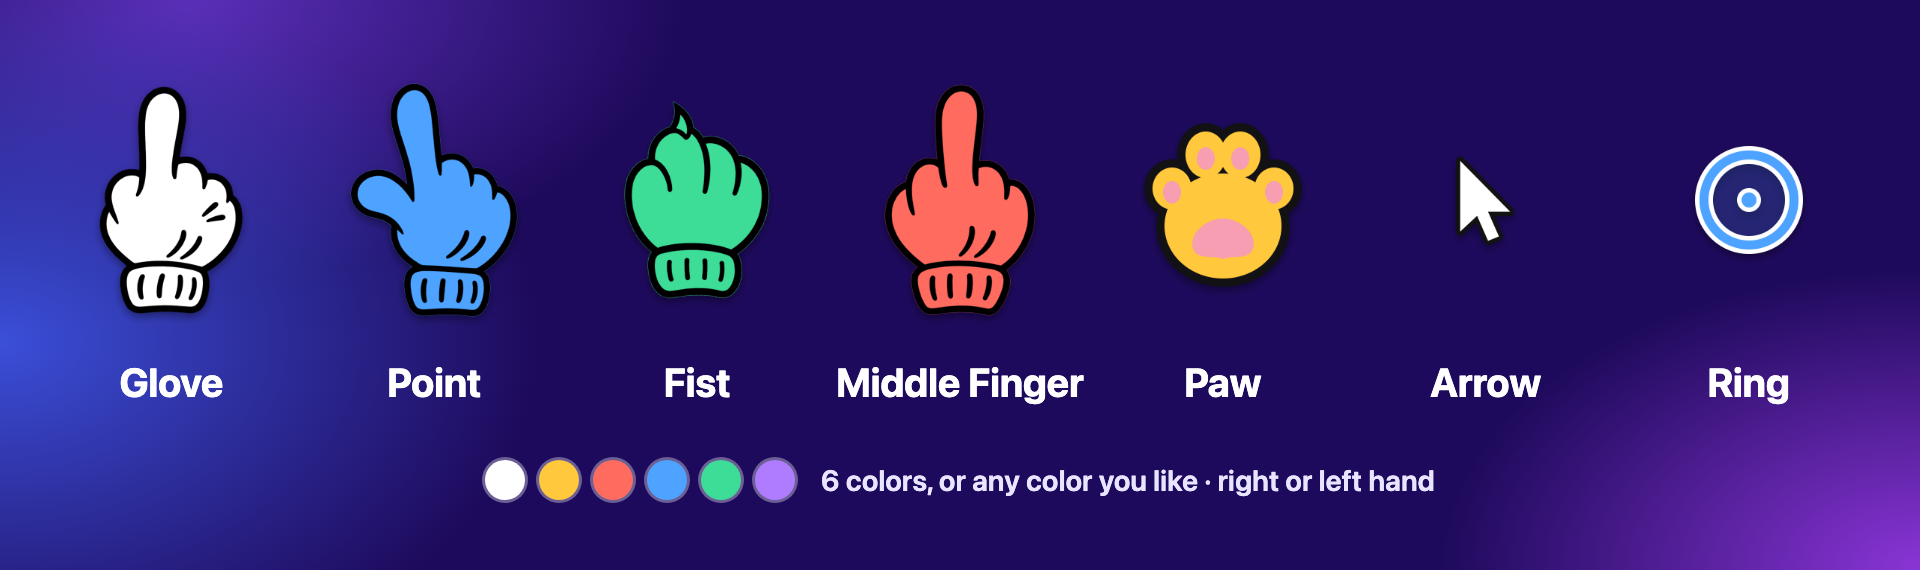
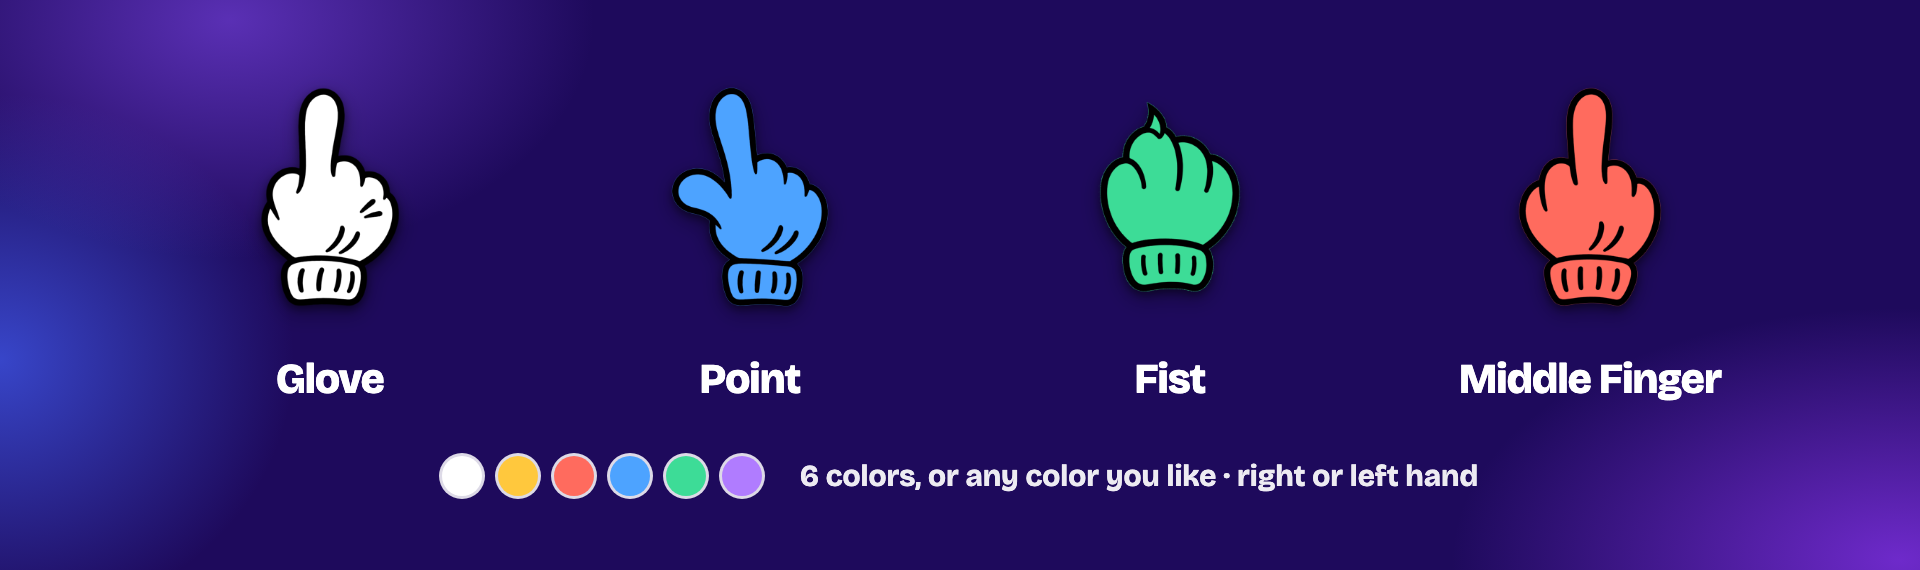
Reach Extender 0.1.0 is out: download link, four hands, changelog dated

diff --git a/README.md b/README.md
@@ -10,7 +10,7 @@ A tiny macOS menu bar app that swaps your cursor for a cartoon glove on a stick.
 Every click lands with a tap people can see and hear, so everyone on your call, demo or recording knows exactly where you clicked.
 
 [![macOS 14+](https://img.shields.io/badge/macOS-14%2B-1E0A5C)](#download)
-[![Mac app: coming soon](https://img.shields.io/badge/Mac%20app-coming%20soon-7B3FF2)](#download)
+[![Download for Mac](https://img.shields.io/badge/Download-for%20Mac-7B3FF2)](https://github.com/soensingh/reach-extender/releases/latest/download/ReachExtender.dmg)
 [![Try it in your browser](https://img.shields.io/badge/Try%20it-in%20your%20browser-7B3FF2)](https://reachextender.soensingh.com)
 [![License: Proprietary](https://img.shields.io/badge/License-Proprietary-555555)](LICENSE)
 [![Windows: coming soon](https://img.shields.io/badge/Windows-coming%20soon-888888)](#faq)
@@ -31,7 +31,7 @@ Every click lands with a tap people can see and hear, so everyone on your call, 
 
 Screen shares shrink your cursor to a speck. Reach Extender gives it a body.
 
-- **A pointer people can follow.** A white glove on a long stick that swings as you move. Swap it for a point with the thumb out, a fist, a middle finger for the meeting that won't end, a paw, an arrow or a ring. Right hand or left, six preset colors (or any color you like), sized from subtle to projector-huge.
+- **A pointer people can follow.** A white glove on a long stick that swings as you move. Swap it for a point with the thumb out, a fist, or a middle finger for the meeting that won't end. Right hand or left, six preset colors (or any color you like), sized from subtle to projector-huge.
 - **Every click is a tap.** The glove winds up and strikes on each click. Keep clicking quickly and the flashes build: sparkle, burst, big burst, star, splat.
 - **Ink that picks its own color.** Automatic flash color goes black or white depending on what's under the click, so it shows up on a white slide and a dark editor alike.
 - **A tap you can hear.** Tap, knock, tick or pop, or load your own sound. Share system audio and your viewers hear it too.
@@ -43,7 +43,7 @@ Screen shares shrink your cursor to a speck. Reach Extender gives it a body.
 - **Out of your way.** It lives in the menu bar with no Dock icon, and it can open at login.
 
 <p align="center">
-  <img src="assets/pointer-styles.png" width="100%" alt="The seven pointer styles: Glove, Point, Fist, Middle Finger, Paw, Arrow and Ring, and six preset colors">
+  <img src="assets/pointer-styles.png" width="100%" alt="The four pointer styles: Glove, Point, Fist and Middle Finger, and six preset colors">
 </p>
 
 <p align="center">
@@ -62,18 +62,13 @@ Screen shares shrink your cursor to a speck. Reach Extender gives it a body.
 
 ## Download
 
-**Coming soon.** The Mac app is in its final checks: signing and notarization with Apple, so it opens without warnings.
-
-- **Get notified:** click **Watch → Custom → Releases** at the top of this page, or leave your email on the [download page](https://reachextender.soensingh.com/download).
-- **Can't wait?** [Try the glove in your browser](https://reachextender.soensingh.com) right now.
-
-When it's out, the DMG will be on the website and in **[GitHub Releases](https://github.com/soensingh/reach-extender/releases)**:
+**[Download Reach Extender for Mac](https://github.com/soensingh/reach-extender/releases/latest/download/ReachExtender.dmg)**, also on the [website](https://reachextender.soensingh.com/download) and in **[GitHub Releases](https://github.com/soensingh/reach-extender/releases)**. It's signed and notarized by Apple, so it opens without warnings.
 
 1. Open the DMG and drag **Reach Extender** into **Applications**.
 2. Open it. Look for the hand in your menu bar: styles, sound and settings live there.
 3. Press **⌃⌥P** to show or hide the pointer.
 
-It will need **macOS 14 Sonoma or later**. A Windows version is in the works.
+It needs **macOS 14 Sonoma or later**. It's free for 10 minutes of use; a lifetime license is on the [website](https://reachextender.soensingh.com/#pricing). New versions arrive inside the app (or click **Watch → Custom → Releases** here to hear about them). A Windows version is in the works.
 
 Two permissions are optional, and everything else works without them:
 

diff --git a/CHANGELOG.md b/CHANGELOG.md
@@ -6,16 +6,14 @@ The format follows [Keep a Changelog](https://keepachangelog.com/en/1.1.0/), and
 
 ## [Unreleased]
 
-<!-- When you publish 0.1.0, change the heading below to "## [0.1.0] - YYYY-MM-DD" and keep this empty section for the next version. -->
-
-## [0.1.0] - Unreleased
+## [0.1.0] - 2026-11-26
 
 The first public release, for macOS 14 Sonoma and later.
 
 ### Added
 
 - **Animated pointer** that replaces the macOS cursor, drawn on a see-through, click-through layer above every app, so clicks land exactly where they always do.
-- **Seven pointer styles:** four cartoon hands (the glove, a point with the thumb out, a fist and a middle finger), a paw, an arrow and a ring.
+- **Four pointer styles,** all cartoon hands: the glove, a point with the thumb out, a fist and a middle finger.
 - **Right or left hand:** the right hand reaches in from the bottom right (the default); the left hand mirrors it from the bottom left.
 - **Six preset colors** (white, yellow, coral, blue, green, purple), plus any custom color.
 - **Size slider**, from small to huge.
